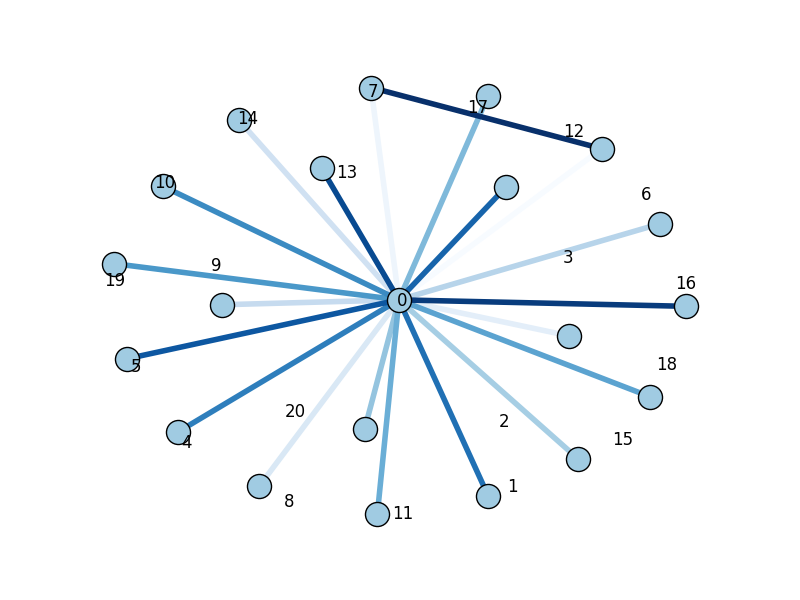
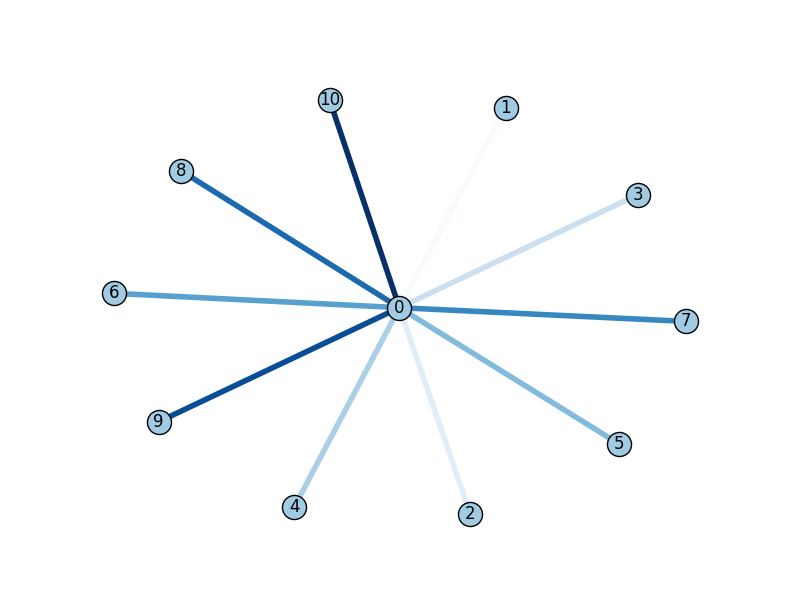
4.16.22.32

diff --git a/wikitools/test3.py b/wikitools/test3.py
@@ -1,6 +1,51 @@
+#!/usr/bin/env python
+"""
+Draw a graph with matplotlib, color edges.
+You must have matplotlib>=87.7 for this to work.
+"""
+__author__ = """Aric Hagberg (hagberg@lanl.gov)"""
+try:
+    import matplotlib.pyplot as plt
+except:
+    raise
+
 import networkx as nx
-G=nx.Graph()
-G.add_node(1)
-H=nx.path_graph(10)
-G.add_node(H)
-print G.nodes()
+
+
+class GygraphAnalysis(object):
+	def __init__(self):
+		self.G = nx.Graph()
+		self.min_node_size = 5
+		self.max_node_size = 10
+
+	def importData(self,data=None):
+		self.clear_nodes()
+		self.G = nx.star_graph(12)
+		self.degree = nx.degree(self.G)
+		self.max_degree_value = max(self.degree.values())
+		self.max_degree_value_floated = float(self.max_degree_value)
+
+	#clear all the node an edges
+	def clear_nodes(self):
+		self.G.clear()
+
+	def node_size(self,n):
+		d = self.degree[n]
+
+
+g = GygraphAnalysis()
+g.importData()
+print g.G.edges()
+
+# G=nx.star_graph(12)
+# pos=nx.spring_layout(G)
+# #G.add_edge(1,2)
+# COLORS = [
+#         '#F20010', '#FC4292', '#B94C4A', '#D19D39', '#A79D0F', '#A65FCC',
+#         '#9470E7', '#19CD1D', '#1DDF9A', '#52A79F', '#24B5D9', '#2080DC',
+#     ]
+# nx.draw_networkx_nodes(G,pos,alpha = 0.8,node_color=COLORS)
+# nx.draw_networkx_edges(G,pos,alpha=0.1,width=4,node_color=COLORS)
+#nx.draw(G,pos,node_color='#A0CBE2',edge_color=colors,width=4,edge_cmap=plt.cm.Blues,with_labels=True)
+#plt.savefig("edge_colormap.png") # save as png
+plt.show()
